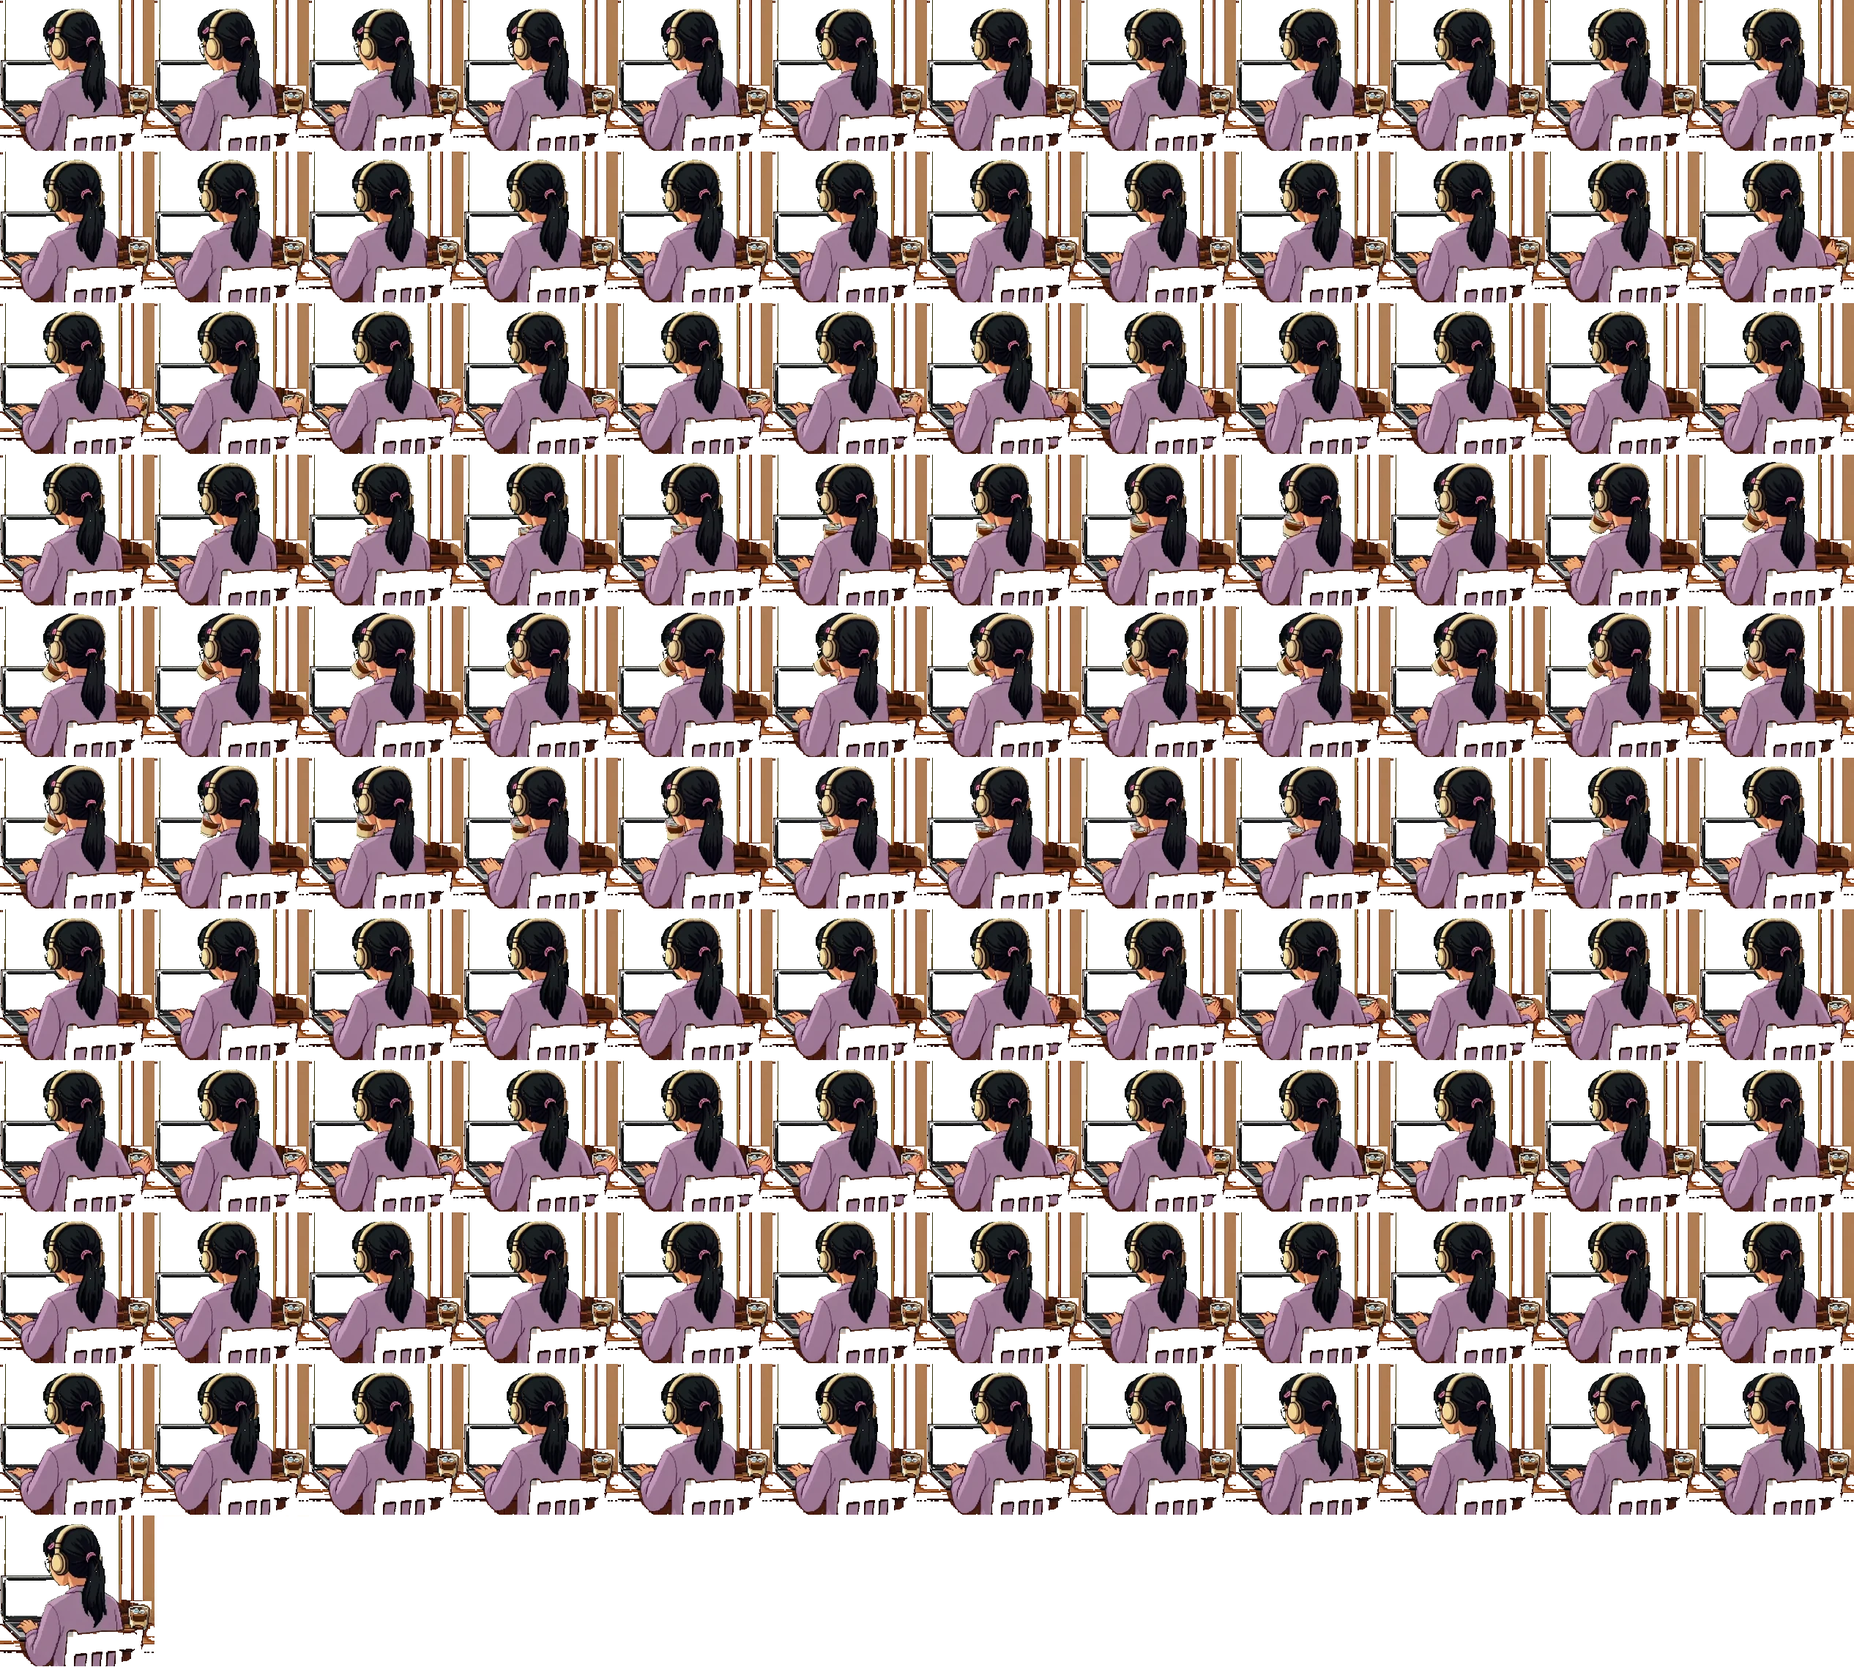
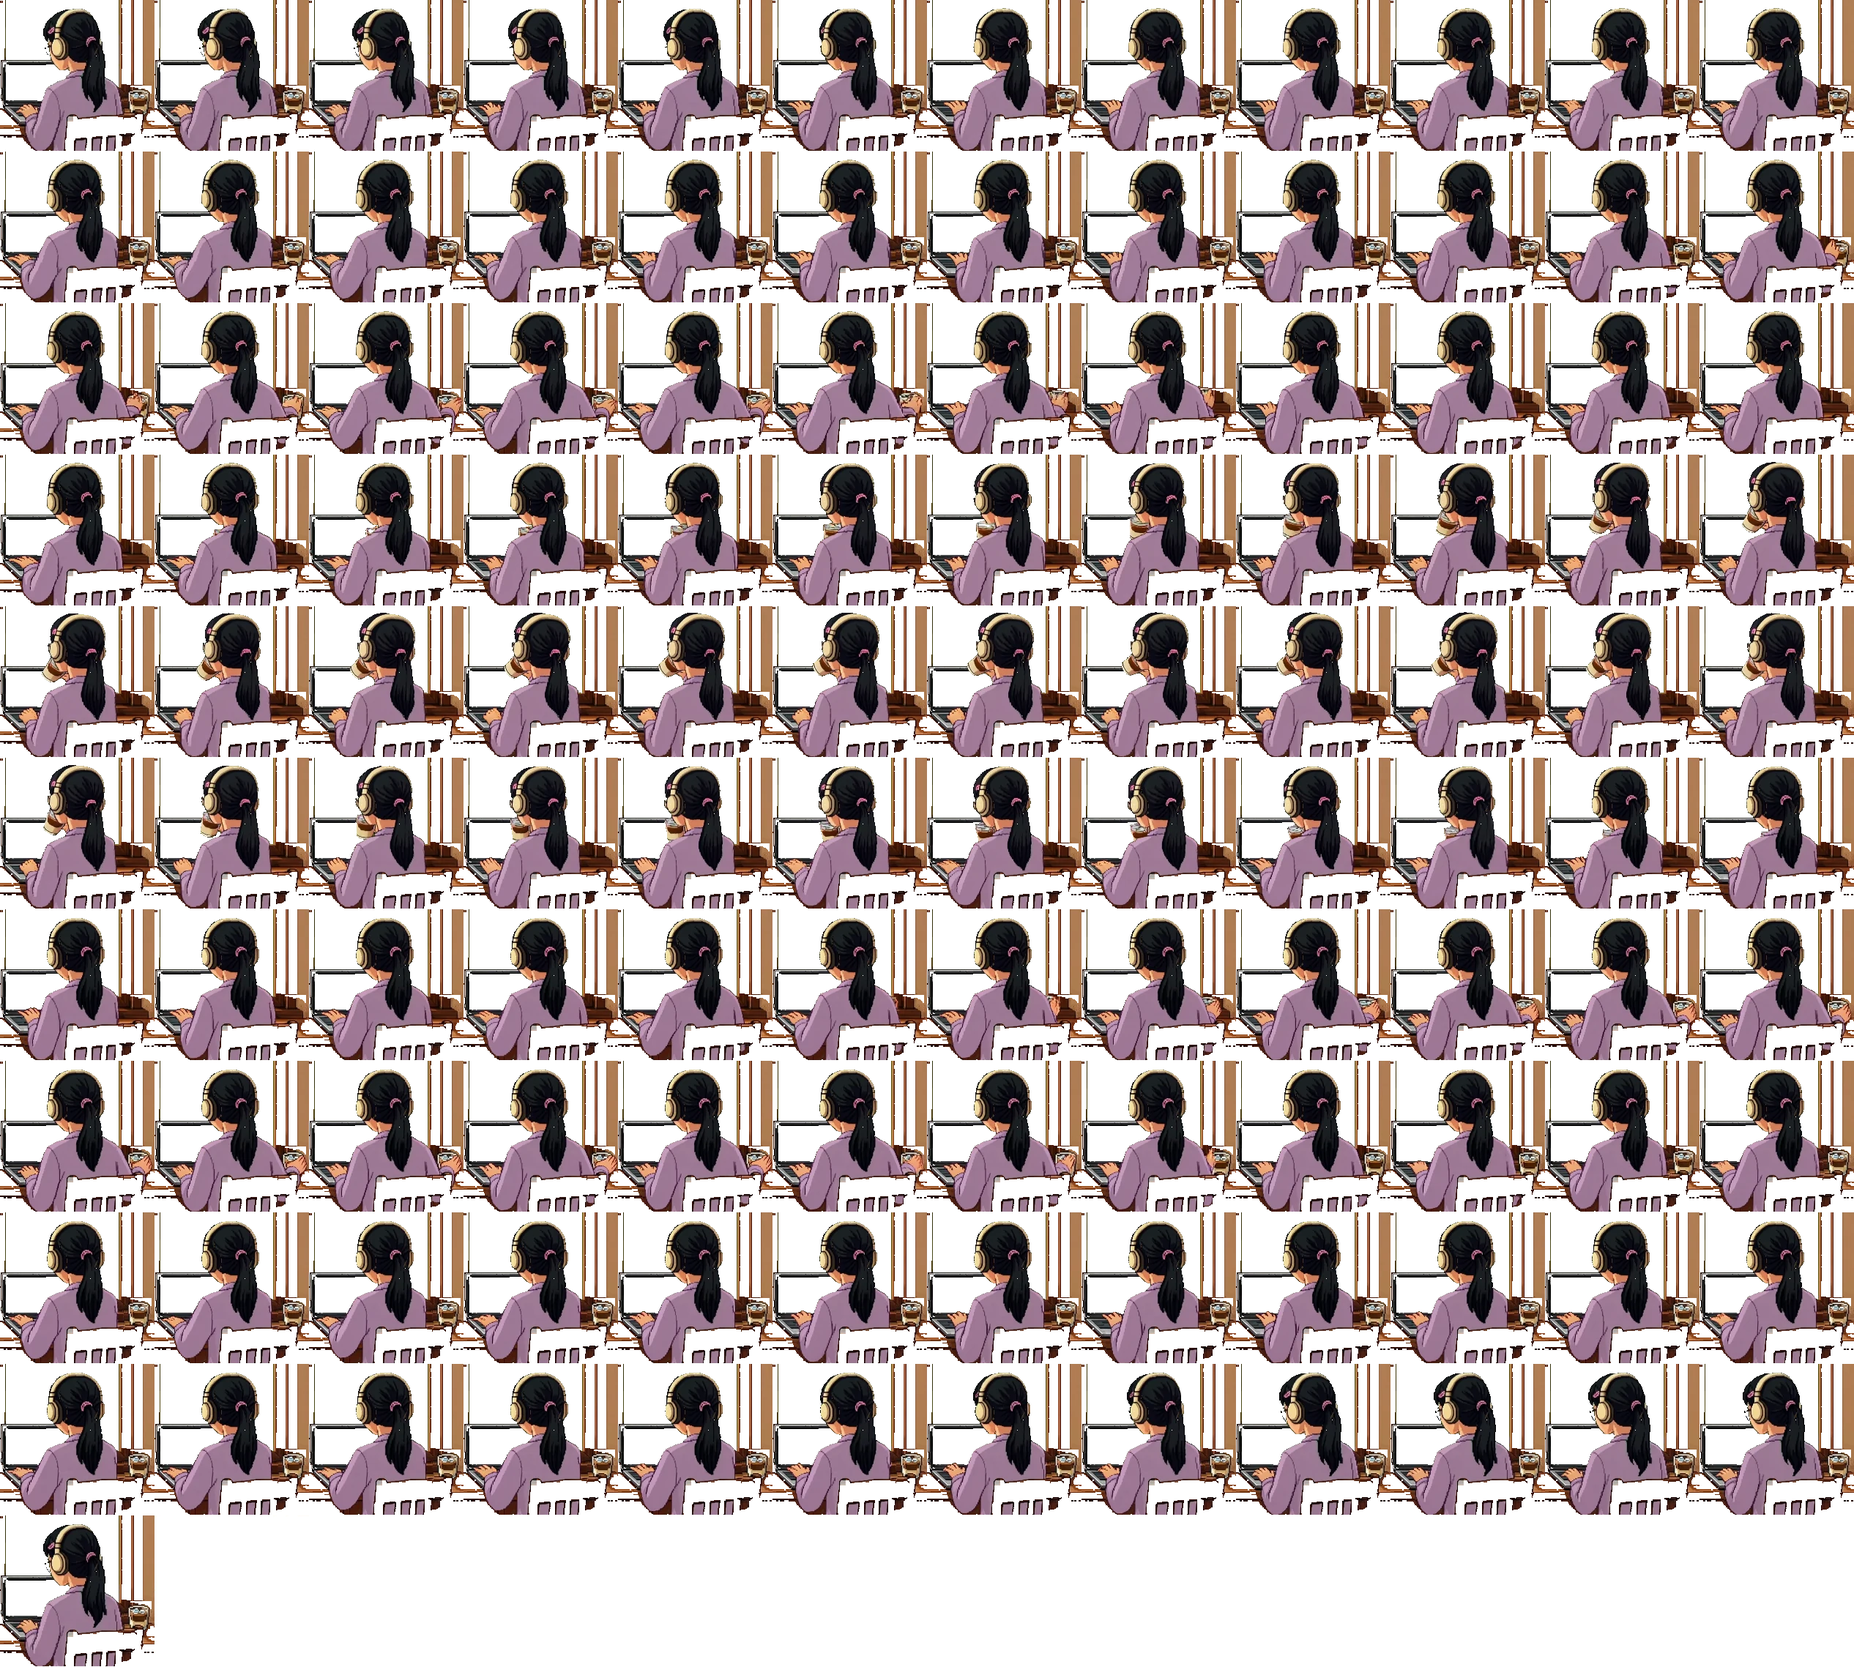
added: /chill she now sits on the Balcony too, so picking "She" shows her in every room. On the Balcony she reads her book, turns a page and picks up the iced coffee for a sip every so often; the balcony, flowers, railing, table and glass are the same pixels as his version. Her Night desk loop was r

diff --git a/src/components/chill/themes.ts b/src/components/chill/themes.ts
@@ -10,7 +10,7 @@
 //
 // Người ngồi nam (art gốc) hoặc nữ (`girl`, công tắc Studio seatPickOpen): bản nữ là ảnh
 // nội thất + video riêng, cùng toạ độ với bản nam (scripts/chill-girl-cafe-art.py).
-// Phòng chưa có bản nữ thì luôn là nam.
+// Cả 3 phòng đều có bản nữ; phòng nào thiếu `girl` thì luôn là nam.
 
 import type {ToySpot} from './wand'
 
@@ -190,6 +190,19 @@ export const THEMES: Theme[] = [
         glow: {src: '/chill/scenes/room-balcony-loop-glow.webp', scale: 1, cols: 10, frames: 81, fps: 8},
       },
     },
+    // Bản nữ (scripts/chill-girl-room-art.py), cùng ô với nam. Đoạn uống gồm cả lật trang (2,1 giây)
+    // nên lúc ngồi đọc không lật trang liên tục. Chưa có sheet quàng khăn Noel
+    girl: {
+      interior: '/chill/scenes/room-balcony-girl.webp',
+      character: {
+        kind: 'video',
+        at: {x: 371, y: 118, w: 269, h: 239},
+        hi: {src: '/chill/scenes/room-balcony-girl-loop@2x.webp', scale: 2, cols: 10, frames: 81, fps: 8},
+        lo: {src: '/chill/scenes/room-balcony-girl-loop.webp', scale: 1, cols: 12, frames: 121, fps: 12},
+        duration: 121 / 12,
+        sip: [2.0, 9.0],
+      },
+    },
     screen: null,
     screenBehind: false,
     cat: {x: 60, y: 197},
@@ -235,7 +248,7 @@ export const THEMES: Theme[] = [
         glow: {src: '/chill/scenes/room-desk-loop-glow.webp', scale: 1, cols: 10, frames: 81, fps: 8},
       },
     },
-    // Bản nữ (scripts/chill-girl-desk-art.py): ô cao hơn ô nam 10 px gốc cho đỉnh tóc, rộng hơn
+    // Bản nữ (scripts/chill-girl-room-art.py): ô cao hơn ô nam 10 px gốc cho đỉnh tóc, rộng hơn
     // 8 px bên trái cho bàn tay; lòng màn trong ảnh tĩnh và trong từng khung đều trong suốt.
     // Chưa có sheet quàng khăn Noel
     girl: {

diff --git a/scripts/chill-girl-room-art.py b/scripts/chill-girl-room-art.py
@@ -1,15 +1,16 @@
 #!/usr/bin/env python3
-# Art người ngồi nữ (G2) cho phòng Bàn đêm của /chill: từ ảnh Nano Banana 2 + video loop Kling
-# (đã tạo trên Weave, ô kính và lòng màn laptop là nền xanh) ra 3 file cùng định dạng với bản nam:
+# Art người ngồi nữ (G2) cho phòng Bàn đêm và Ban công của /chill: từ ảnh Nano Banana 2 + video loop
+# Kling (đã tạo trên Weave, chỗ nhìn ra phố và lòng màn laptop là nền xanh) ra 3 file cùng định dạng
+# với bản nam, ví dụ phòng Bàn đêm:
 #   public/chill/scenes/room-desk-girl.webp         ảnh tĩnh 1280×720, ô kính + lòng màn trong suốt
-#   public/chill/scenes/room-desk-girl-loop.webp    121 khung 12fps, ô 211×207, 12 cột, ô cuối = mặt nạ
-#   public/chill/scenes/room-desk-girl-loop@2x.webp 81 khung 8fps, ô 422×414, 10 cột, ô cuối = mặt nạ
+#   public/chill/scenes/room-desk-girl-loop.webp    121 khung 12fps, 12 cột, ô cuối = mặt nạ
+#   public/chill/scenes/room-desk-girl-loop@2x.webp 81 khung 8fps, 10 cột, ô cuối = mặt nạ
 #
-#   python3 scripts/chill-girl-desk-art.py --nano <ảnh nano.png> --video <kling.mp4> [--install]
+#   python3 scripts/chill-girl-room-art.py --room desk|balcony --nano <ảnh nano.png> --video <kling.mp4> [--install]
 #
 # Khác quán: Bàn đêm vẽ màn laptop DƯỚI ảnh nội thất (themes.ts: screenBehind), nên lòng màn trong
 # ảnh tĩnh và trong từng khung phải trong suốt; video giữ lòng màn xanh nên khử xanh là đủ.
-#   - Cảnh (khung cửa, bàn, laptop, ghế, ly) lấy pixel ảnh gốc room-desk.webp, giống hệt bản nam.
+#   - Cảnh (khung cửa, bàn, laptop, ghế, ly, lan can, cây) lấy pixel ảnh gốc, giống hệt bản nam.
 #   - Người lấy từ video Kling; pixel đứng yên mà là cảnh thì lấy ảnh tĩnh cho nét, không rung.
 # Cần ffmpeg, Pillow, numpy.
 
@@ -18,7 +19,7 @@ import importlib.util
 import os
 
 import numpy as np
-from PIL import Image, ImageDraw
+from PIL import Image
 
 ROOT = os.path.dirname(os.path.dirname(os.path.abspath(__file__)))
 SCENES = os.path.join(ROOT, 'public', 'chill', 'scenes')
@@ -28,15 +29,68 @@ _spec.loader.exec_module(cafe)
 grow, shrink, big, enclosed, spread, lavender, rgba, video_frames = (
     cafe.grow, cafe.shrink, cafe.big, cafe.enclosed, cafe.spread, cafe.lavender, cafe.rgba, cafe.video_frames)
 
-# Vùng người ngồi nữ (themes.ts desk `girl.character.at` × 2), px 1280: cao hơn ô của nam 10 px
-# cho đỉnh tóc, rộng hơn 16 px bên trái cho bàn tay
-X0, Y0, W, H = 858, 262, 422, 414
-# Vùng quanh người được phép lấy ảnh Nano (ngoài vùng này luôn là ảnh gốc)
-ZONE = (850, 250, 1280, 720)
-# Ly cà phê đá trên bàn: giữ nguyên bản nam
-GLASS = (1196, 496, 1272, 588)
+# Mỗi phòng: `box` = vùng người ngồi nữ (themes.ts `girl.character.at` × 2, px 1280); `zone` = vùng
+# quanh người được phép lấy ảnh Nano (ngoài vùng này luôn là ảnh gốc); `glass` = ly cà phê đá, giữ
+# nguyên bản nam; `near` = chỉ tìm người nam trong
+# khoảng này quanh người (0 = cả vùng); `scene` = pixel cảnh khác ảnh tĩnh từ mức này mới
+# coi là có chuyển động; `q` = chất lượng webp của sheet
+ROOMS = {
+    # Ô cao hơn ô của nam 10 px cho đỉnh tóc, rộng hơn 16 px bên trái cho bàn tay
+    'desk': {'box': (858, 262, 422, 414), 'zone': (850, 250, 1280, 720), 'glass': (1196, 496, 1272, 588), 'near': 0, 'scene': 34, 'q': 88},
+    # Cùng ô với nam (đã gồm bàn nhỏ và ly ở bên trái)
+    'balcony': {'box': (742, 236, 538, 478), 'zone': (742, 236, 1280, 720), 'glass': (792, 498, 860, 588), 'near': 101, 'scene': 60, 'q': 82},
+}
 N = 242  # khung video 24fps × ~10 giây
-NAMES = ('room-desk-girl.webp', 'room-desk-girl-loop.webp', 'room-desk-girl-loop@2x.webp')
+
+
+def use_room(room):
+    global X0, Y0, W, H, ZONE, GLASS, NAMES, ORIG, ROOM
+    ROOM = room
+    X0, Y0, W, H = ROOMS[room]['box']
+    ZONE, GLASS = ROOMS[room]['zone'], ROOMS[room]['glass']
+    ORIG = f'room-{room}.webp'
+    NAMES = (f'room-{room}-girl.webp', f'room-{room}-girl-loop.webp', f'room-{room}-girl-loop@2x.webp')
+
+
+use_room('desk')
+
+
+def is_green(a):
+    return (a[..., 1] > a[..., 0] + 45) & (a[..., 1] > a[..., 2] + 35)
+
+
+def dark(a):
+    return a[..., :3].max(-1) < 80
+
+
+def skin(a):
+    return (a[..., 0] > 170) & (a[..., 0] > a[..., 1] + 25) & (a[..., 1] > a[..., 2] + 10)
+
+
+# Mỗi phòng: `box` = vùng người ngồi nữ (themes.ts `girl.character.at` × 2, px 1280); `zone` = vùng
+# quanh người được phép lấy ảnh Nano (ngoài vùng này luôn là ảnh gốc); `glass` = ly cà phê đá, giữ
+# nguyên bản nam; `near` = chỉ tìm người nam trong
+# khoảng này quanh người (0 = cả vùng); `scene` = pixel cảnh khác ảnh tĩnh từ mức này mới
+# coi là có chuyển động; `q` = chất lượng webp của sheet
+ROOMS = {
+    # Ô cao hơn ô của nam 10 px cho đỉnh tóc, rộng hơn 16 px bên trái cho bàn tay
+    'desk': {'box': (858, 262, 422, 414), 'zone': (850, 250, 1280, 720), 'glass': (1196, 496, 1272, 588), 'near': 0, 'scene': 34, 'q': 88},
+    # Cùng ô với nam (đã gồm bàn nhỏ và ly ở bên trái)
+    'balcony': {'box': (742, 236, 538, 478), 'zone': (742, 236, 1280, 720), 'glass': (792, 498, 860, 588), 'near': 101, 'scene': 60, 'q': 82},
+}
+N = 242  # khung video 24fps × ~10 giây
+
+
+def use_room(room):
+    global X0, Y0, W, H, ZONE, GLASS, NAMES, ORIG, ROOM
+    ROOM = room
+    X0, Y0, W, H = ROOMS[room]['box']
+    ZONE, GLASS = ROOMS[room]['zone'], ROOMS[room]['glass']
+    ORIG = f'room-{room}.webp'
+    NAMES = (f'room-{room}-girl.webp', f'room-{room}-girl-loop.webp', f'room-{room}-girl-loop@2x.webp')
+
+
+use_room('desk')
 
 
 def is_green(a):
@@ -53,32 +107,38 @@ def skin(a):
 
 def fill_holes(m):
     # Lấp các lỗ nằm lọt trong m (không thông ra mép ảnh)
-    im = Image.fromarray(np.pad(m, 1).astype(np.uint8) * 255)
+    im = Image.fromarray(np.pad(m, 1).astype(np.uint8) * 255).copy()
     ImageDraw.floodfill(im, (0, 0), 128)
-    return np.asarray(im)[1:-1, 1:-1] != 128
+    return np.array(im)[1:-1, 1:-1] != 128
 
 
 def build_static(nano, orig, video):
     girl = np.asarray(Image.open(nano).convert('RGB').resize((1280, 720), Image.LANCZOS)).astype(int)
     out = orig.copy()
     opaque = orig[..., 3] > 0
+    # Nền xanh, kể cả đốm xanh ngọc Nano để lại giữa nền (chỉ xét trong vùng quanh người)
     gg = is_green(girl)
+    cyan = (girl[..., 1] > girl[..., 0] + 60) & (girl[..., 2] > girl[..., 0] + 40)
+    gg |= grow(cyan, 3) & grow(gg, 9)
     diff = np.abs(girl - orig[..., :3]).max(-1)
     zone = np.zeros((720, 1280), bool)
     zone[ZONE[1]:ZONE[3], ZONE[0]:ZONE[2]] = True
     zone[GLASS[1]:GLASS[3], GLASS[0]:GLASS[2]] = False
     # Chỗ ảnh Nano khác ảnh gốc: người mới, và nền lộ ra sau khi bỏ người cũ
     differs = (opaque & ~gg & (diff > 45)) | (opaque & gg) | (~opaque & ~gg)
-    # Bỏ nét mảnh (vân gỗ Nano vẽ lệch 1–2 px) rồi mới nới ra, để vùng người không loang theo vân gỗ
-    solid = grow(shrink(differs & zone, 3), 3)
-    z = big(grow(solid, 7) & zone, 2000)
-    # Tóc đen của nữ trùng màu tóc / áo của nam nên không "khác": lấp các lỗ lọt giữa người
-    z = fill_holes(z) & zone
-    # Tóc / áo xanh than của nam (tối, ngả xanh; nét viền gỗ thì ngả đỏ) và da: luôn phải thay, kể cả
-    # chỗ tóc đen của nữ đè lên áo nam nên hai ảnh "gần giống nhau"
+    # Cả vùng quanh người lấy ảnh Nano, rồi trả lại ảnh gốc ở những pixel là cảnh: hai ảnh gần giống
+    # nhau và không phải người nam. Người nam = tóc / áo xanh than (tối, ngả xanh; nét viền gỗ thì
+    # ngả đỏ) và da — luôn phải thay, kể cả chỗ tóc đen của nữ đè lên nên hai ảnh "gần giống nhau"
+    z = zone.copy()
     cool = (orig[..., :3].max(-1) < 120) & (orig[..., 2] >= orig[..., 0])
     boyish = grow((cool | skin(orig)) & opaque, 5)
-    # Trong vùng đó, pixel cảnh (hai ảnh gần giống nhau, không phải người nam) vẫn lấy ảnh gốc
+    near = ROOMS[ROOM]['near']
+    if near:
+        # Cảnh có nhiều thứ tối ngả xanh (lan can sắt, lá cây): chỉ coi là người nam ở gần mảng khác
+        # biệt lớn (chính là người), còn lại vẫn trả về ảnh gốc
+        k = 9
+        body = big(grow(shrink(differs & zone, k), k), 2000)
+        boyish &= grow(body, near)
     same = z & opaque & ~gg & (diff < 60) & ~boyish
     z &= ~shrink(same, 3)
     out[z, :3] = girl[z]
@@ -131,8 +191,11 @@ def build_sheets(static, from_orig, fr, work):
     # Xanh lẫn nhẹ (viền) chỉ coi là nền ở chỗ ảnh tĩnh trong suốt
     green = ((g > r + 45) & (g > b + 35)) | ((st_a == 0)[None] & (g > r + 15) & (g > b + 5))
 
-    # Mặt nạ: chỗ video khác ảnh tĩnh + cả người nữ trong ảnh tĩnh
-    moving = (np.abs(fr - st_rgb).max(-1) > 34) | (green & (st_a > 0))
+    # Mặt nạ: chỗ video khác ảnh tĩnh + cả người nữ trong ảnh tĩnh. Chỗ ảnh tĩnh trong suốt (trời, ô
+    # kính) chỉ tính khi video không phải nền xanh, tức là có người đi ngang. Pixel cảnh thì phải khác
+    # rõ mới tính (cây, lan can trong video rung nhẹ so với ảnh tĩnh)
+    diff = np.abs(fr - st_rgb).max(-1)
+    moving = np.where((st_a > 0)[None], (diff > np.where(scene_px, ROOMS[ROOM]['scene'], 34)) | green, ~green)
     mask = big(shrink(grow(moving.any(0), 5), 3), 300) | (~scene_px & (st_a > 0))
     mask[H - 2:] = False  # webp lem màu ở mép ô → 2 hàng đáy để ảnh tĩnh lo
 
@@ -152,8 +215,9 @@ def build_sheets(static, from_orig, fr, work):
 
     def frame(i):
         f, gi = fr[i].copy(), green[i]
-        # Ly thuỷ tinh cầm trước áo: xanh lọt qua ly → vá màu láng giềng thay vì đục lỗ
-        hole = gi & (st_a > 0) & mask & ~scene_px
+        # Ly thuỷ tinh cầm trước áo: đốm xanh nhỏ lọt giữa ly / tay → vá màu láng giềng thay vì đục lỗ.
+        # Mảng xanh lớn (nền lộ ra khi người / quyển sách dời khỏi chỗ trong ảnh tĩnh) thì vẫn là nền
+        hole = enclosed(gi & mask & (st_a > 0) & ~scene_px, ~gi, 300)
         if hole.any():
             f = inpaint(f, hole)
             gi = gi & ~hole
@@ -213,7 +277,7 @@ def build_sheets(static, from_orig, fr, work):
             if scale == 1:
                 im = im.resize((cw, ch), Image.NEAREST)
             sheet.paste(im, ((k % cols) * cw, (k // cols) * ch))
-        sheet.save(os.path.join(work, name), quality=88, method=6)
+        sheet.save(os.path.join(work, name), quality=ROOMS[ROOM]['q'], method=6)
         print(name, sheet.size, len(idx), 'khung')
     # Đoạn uống: vùng ly đá đổi so với khung đầu. Lúc không uống, scene.ts nhảy từ đầu đoạn tới cuối
     # đoạn, nên chọn cặp khung (trước khi với tay, sau khi đặt ly) giống nhau nhất
@@ -227,15 +291,18 @@ def build_sheets(static, from_orig, fr, work):
 
 def main():
     p = argparse.ArgumentParser()
-    p.add_argument('--nano', required=True, help='ảnh Nano Banana 2 (người nữ ở Bàn đêm, 16:9, nền xanh)')
+    p.add_argument('--room', required=True, choices=sorted(ROOMS))
+    p.add_argument('--nano', required=True, help='ảnh Nano Banana 2 (người nữ trong phòng, 16:9, nền xanh)')
     p.add_argument('--video', required=True, help='video Kling 10 giây (khung đầu = khung cuối = ảnh nền xanh)')
-    p.add_argument('--work', default=os.path.join(ROOT, '.chill-video', 'girl-desk'))
+    p.add_argument('--work', help='thư mục làm việc (mặc định .chill-video/girl-<phòng>)')
     p.add_argument('--install', action='store_true', help='chép 3 file kết quả vào public/chill/scenes')
     args = p.parse_args()
+    use_room(args.room)
+    args.work = args.work or os.path.join(ROOT, '.chill-video', f'girl-{args.room}')
     os.makedirs(args.work, exist_ok=True)
-    orig = rgba(os.path.join(SCENES, 'room-desk.webp'))
+    orig = rgba(os.path.join(SCENES, ORIG))
     static, from_orig = build_static(args.nano, orig, args.video)
-    Image.fromarray(static.astype(np.uint8)).save(os.path.join(args.work, 'room-desk-girl.png'))
+    Image.fromarray(static.astype(np.uint8)).save(os.path.join(args.work, NAMES[0].replace('.webp', '.png')))
     Image.fromarray(static.astype(np.uint8)).save(os.path.join(args.work, NAMES[0]), quality=90, method=6, exact=True)
     fr = video_frames(args.video, (X0, Y0, W, H))[:N]
     build_sheets(static, from_orig, fr, args.work)
